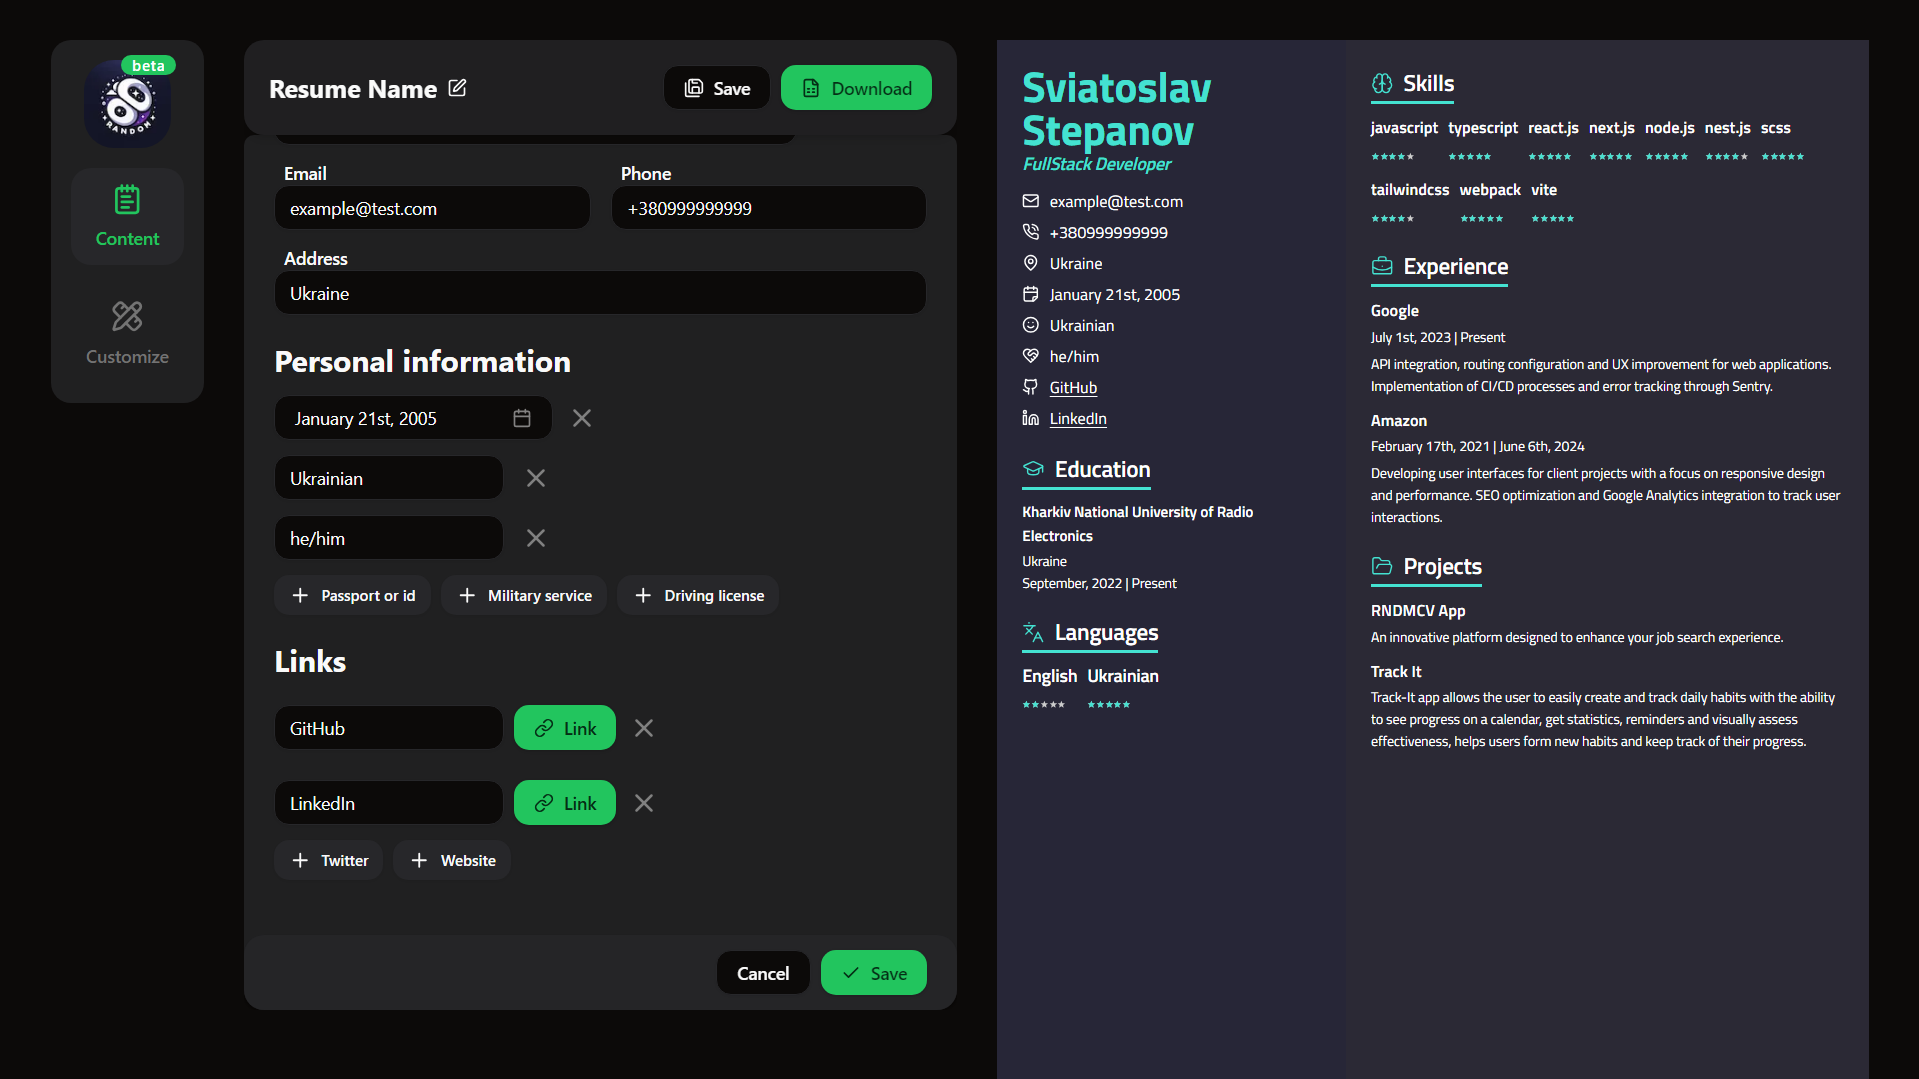
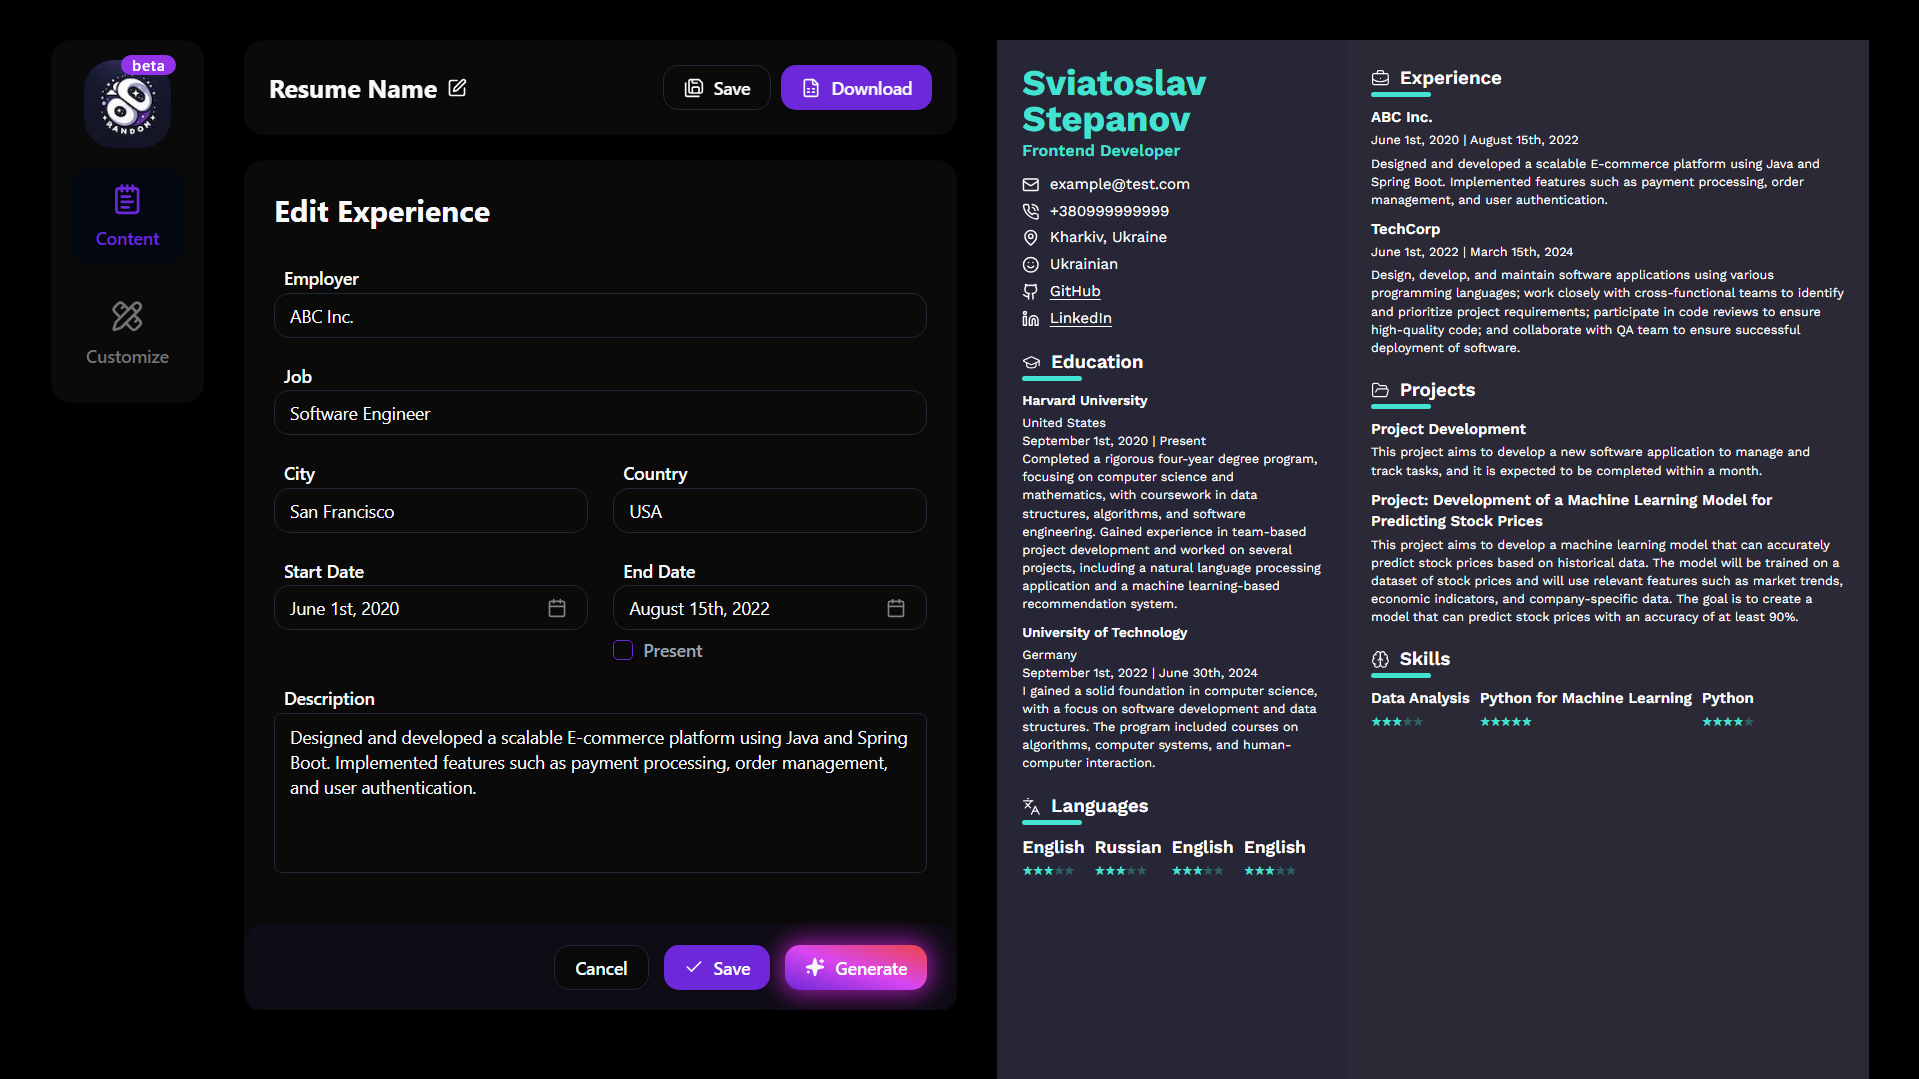
style: updated styles

diff --git a/src/entities/resume/ui/ResumeForm.tsx b/src/entities/resume/ui/ResumeForm.tsx
@@ -9,6 +9,7 @@ import { toggleStatus } from "../model/status.slice"
 
 import { ContentWrapper } from "./ContentWrapper"
 import { ResumeFormField } from "./ResumeFormField"
+
 import { useAppDispatch } from "@/app/store"
 import { generateSectionFields } from "@/shared/lib/actions"
 import { SectionKey } from "@/shared/lib/types"
@@ -51,6 +52,7 @@ const ResumeForm = <TSchema extends ZodSchema>({
     setIsLoading(true)
     try {
       const response = await generateSectionFields(names.join(", "), heading)
+
       console.log(response)
 
       Object.entries(response).forEach(([key, value]) => {
@@ -73,7 +75,7 @@ const ResumeForm = <TSchema extends ZodSchema>({
       <div className="relative mt-5 flex flex-col gap-5 rounded-2xl">
         <Form {...form}>
           <form onSubmit={functions.onSubmit}>
-            <div className="flex h-full flex-col gap-5 overflow-y-scroll rounded-2xl bg-white p-6 dark:bg-[#0e0c14]">
+            <div className="flex h-full flex-col gap-5 overflow-y-scroll rounded-2xl bg-white p-6 dark:bg-background">
               <h2 className="mb-2 text-2xl font-bold capitalize">{heading}</h2>
               <div className="grid grid-cols-2 gap-5">
                 {fields.map((fld) => (
@@ -83,8 +85,8 @@ const ResumeForm = <TSchema extends ZodSchema>({
                     name={fld.name}
                     render={({ field }) => (
                       <ResumeFormField<TSchema>
-                        field={field}
                         disabled={isLoading}
+                        field={field}
                         fieldName={fld.name}
                         type={fld.type}
                       />
@@ -102,16 +104,15 @@ const ResumeForm = <TSchema extends ZodSchema>({
                 {buttonText}
               </Button>
               <Button
-                onClick={generate}
-                className="relative bg-gradient-to-tr from-primary via-fuchsia-500 to-red-500"
+                className="relative bg-gradient-to-tr from-primary via-fuchsia-500 to-red-500 shadow-[0_0_20px_3px_#a21caf] transition-all hover:scale-105"
                 disabled={state.isLoading}
                 type="button"
+                onClick={generate}
               >
-                <div className="absolute -inset-1 -z-10 rounded-xl bg-gradient-to-b from-primary/60 to-primary opacity-70 blur dark:opacity-100" />
                 {isLoading ? (
                   <Loader2Icon className="mr-2 animate-spin" size={16} />
                 ) : (
-                  <SparklesIcon fill="currentColor" className="mr-2" size={16} />
+                  <SparklesIcon className="mr-2" fill="currentColor" size={16} />
                 )}
                 Generate
               </Button>

diff --git a/src/entities/resume/ui/ResumeFormField.tsx b/src/entities/resume/ui/ResumeFormField.tsx
@@ -1,10 +1,11 @@
+import type { TFormFieldType } from "./ResumeForm"
+
 import { format } from "date-fns"
 import { CalendarIcon } from "lucide-react"
 import { useState } from "react"
 import { ControllerRenderProps, Path } from "react-hook-form"
 import { TypeOf, ZodSchema } from "zod"
 
-import type { TFormFieldType } from "./ResumeForm"
 import { cn } from "@/shared/lib/utils"
 import {
   Button,
@@ -49,11 +50,11 @@ const ResumeFormField = <TSchema extends ZodSchema>({
                     {type === "startDate" ? "Start Date" : "End Date"}
                   </h6>
                   <Button
-                    disabled={disabled}
                     className={cn(
                       "w-full space-y-0 pl-3 text-left font-normal",
                       !field.value && "text-muted-foreground"
                     )}
+                    disabled={disabled}
                     type="button"
                     variant={"outline"}
                   >
@@ -88,8 +89,8 @@ const ResumeFormField = <TSchema extends ZodSchema>({
           <FormDescription>
             <Label className="flex items-center gap-2">
               <Checkbox
-                disabled={disabled}
                 checked={isChecked}
+                disabled={disabled}
                 onCheckedChange={(ch) => {
                   setIsChecked(!isChecked)
                   ch ? field.onChange("Present") : field.onChange("")
@@ -109,8 +110,8 @@ const ResumeFormField = <TSchema extends ZodSchema>({
       <FormItem className="col-span-full">
         <FormControl>
           <Textarea
+            className="min-h-32 w-full resize-none"
             disabled={disabled}
-            className="min-h-20 w-full resize-none"
             heading={fieldName}
             placeholder="Add description"
             value={field.value}
@@ -126,8 +127,8 @@ const ResumeFormField = <TSchema extends ZodSchema>({
     <FormItem className={type === "default" ? "col-span-full" : "w-full"}>
       <FormControl>
         <Input
-          disabled={disabled}
           className="w-full"
+          disabled={disabled}
           heading={fieldName}
           placeholder={`Enter your ${fieldName}`}
           value={field.value}

diff --git a/src/shared/lib/actions.ts b/src/shared/lib/actions.ts
@@ -5,6 +5,7 @@ import Stripe from "stripe"
 import { CompletionAIModel } from "./ai"
 import { RESPONSE_STATUS } from "./constants"
 import { ICreateResume, IResumeResponse, IUpdateResume } from "./types"
+
 import { auth } from "@/auth"
 import { prisma } from "@/prisma"
 
@@ -163,8 +164,10 @@ export async function generateSectionFields(fields: string, heading: string) {
   }
 
   try {
-    const prompt = `Given a list of fields: ${fields}. We need to generate a JSON object for “${heading.split(" ")[1]}”, if it is startDate or endDate, we need a string in the format “2024-11-03T21:00:00.000Z”, all others should be strings. TThe data should be plausible, that is, detailed information, everything should be detailed, even description. No unnecessary text, just output the result, i.e. the object. Without your words.`
+    const prompt = `Based on the list of fields: ${fields}, generate a JSON object for the section "${heading.split(" ")[1]}". If your fields include startDate or endDate, set them to a string in the format “2024-11-03T21:00:00.000Z”. If there is a level field, set it to a value between 1 and 5 (as string). All other fields must be strings. The data must be detailed, including a description if it is included among the fields. Do not include the section name in the object. Output only a JSON object with fields: ${fields} - without additional information or comments. Without your extra words, like Here is the generated JSON object...`
     const result = await CompletionAIModel(prompt)
+
+    console.log("@result", result)
 
     return typeof result === "string" ? JSON.parse(result) : result
   } catch (err) {

diff --git a/src/entities/resume/ui/ResumeDetails.tsx b/src/entities/resume/ui/ResumeDetails.tsx
@@ -1,14 +1,16 @@
 "use client"
 
+import type { SectionItem, SectionKey, SectionKeyWithoutPerson } from "@/shared/lib/types"
+
 import { DragDropContext, type DropResult, Droppable, DroppableProvided } from "@hello-pangea/dnd"
 import { EyeOffIcon, LucideIcon, PlusIcon } from "lucide-react"
+import Image from "next/image"
 
 import { reorderItems } from "../model/resume.slice"
 import { toggleStatus } from "../model/status.slice"
 
 import { useAppDispatch } from "@/app/store"
 import { toggleSectionInResume } from "@/entities/resume"
-import type { SectionItem, SectionKey, SectionKeyWithoutPerson } from "@/shared/lib/types"
 import { Accordion, AccordionContent, AccordionItem, AccordionTrigger, Button } from "@/shared/ui"
 
 interface ResumeDetailsProps<T> {
@@ -45,11 +47,18 @@ const ResumeDetails = <T extends SectionItem>({
   return (
     <div>
       <Accordion collapsible type="single">
-        <AccordionItem className="rounded-2xl dark:bg-[#0e0c14]" value={type}>
+        <AccordionItem className="relative mr-1 rounded-2xl dark:bg-background" value={type}>
           <AccordionTrigger>
             <div className="flex items-center gap-4 text-2xl font-bold capitalize">
               <Icon size={26} /> {type}
             </div>
+            <Image
+              alt="ai"
+              className="absolute -right-1 -top-1"
+              height={20}
+              src="/images/ai-badge2.png"
+              width={20}
+            />
           </AccordionTrigger>
           <AccordionContent>
             <DragDropContext onDragEnd={onDragEnd}>

diff --git a/src/shared/ui/button.tsx b/src/shared/ui/button.tsx
@@ -9,10 +9,10 @@ const buttonVariants = cva(
   {
     variants: {
       variant: {
-        default: "bg-primary text-primary-foreground shadow hover:bg-primary/90",
-        destructive: "bg-destructive text-destructive-foreground shadow-sm hover:bg-destructive/90",
+        default: "bg-primary text-primary-foreground shadow hover:bg-primary/70",
+        destructive: "bg-destructive text-destructive-foreground shadow-sm hover:bg-destructive/70",
         outline:
-          "border border-input bg-background shadow-sm hover:bg-accent dark:hover:bg-background/50 hover:text-accent-foreground",
+          "border border-input bg-background shadow-sm hover:bg-accent dark:hover:bg-accent/50 hover:text-accent-foreground",
         secondary: "bg-secondary text-secondary-foreground shadow-sm hover:bg-secondary/80",
         ghost: "hover:bg-accent hover:text-accent-foreground",
         link: "text-primary underline-offset-4 hover:underline"

diff --git a/src/pages_/HomePage/FeaturesSection.tsx b/src/pages_/HomePage/FeaturesSection.tsx
@@ -57,14 +57,14 @@ const FeaturesSection = () => {
           <div>
             <Image
               alt="resume-builder"
-              className="h-[580px] w-[800px] rounded-lg object-cover shadow-lg shadow-purple-400 dark:hidden dark:shadow-cyan-700"
+              className="h-[580px] w-[800px] rounded-lg object-cover shadow-lg shadow-violet-600/40 dark:hidden"
               height={1080}
               src="/images/app-2.png"
               width={1920}
             />
             <Image
               alt="resume-builder"
-              className="hidden h-[580px] w-[800px] rounded-lg object-cover shadow-lg shadow-purple-500/40 dark:block dark:shadow-cyan-500/40"
+              className="hidden h-[580px] w-[800px] rounded-lg object-cover shadow-lg dark:block dark:shadow-violet-600/40"
               height={1080}
               src="/images/app-2-dark.png"
               width={1920}

diff --git a/src/pages_/HomePage/WelcomeSection.tsx b/src/pages_/HomePage/WelcomeSection.tsx
@@ -46,7 +46,7 @@ const WelcomeSection = () => {
       </div>
       <animated.div
         ref={ref}
-        className="mt-16 w-full max-w-[70%] rounded-lg shadow-lg shadow-purple-400 dark:shadow-cyan-700"
+        className="mt-16 w-full max-w-[70%] rounded-lg shadow-lg shadow-violet-600/60"
         style={{
           position: "relative",
           overflow: "hidden",
@@ -67,7 +67,7 @@ const WelcomeSection = () => {
           src="/images/app-1-dark.png"
           width={1920}
         />
-        <div className="absolute left-[10%] top-[5%] z-30 h-52 w-52 bg-gradient-to-bl from-primary via-violet-500 to-blue-500 opacity-20 blur-2xl dark:from-primary dark:via-cyan-500 dark:to-blue-600" />
+        <div className="absolute left-[10%] top-[5%] z-30 h-52 w-52 bg-gradient-to-bl from-violet-400 via-violet-500 to-violet-600 opacity-20 blur-2xl" />
       </animated.div>
     </section>
   )

diff --git a/src/app/(builder)/resume/layout.tsx b/src/app/(builder)/resume/layout.tsx
@@ -7,7 +7,7 @@ export default function ResumeLayout({ children }: Readonly<{ children: React.Re
   return (
     <ResumeProvider>
       <AutosaveResume />
-      <div className="relative mx-auto flex h-full w-full justify-center gap-8 bg-zinc-100 px-4 dark:bg-background sm:px-6 md:px-6 lg:px-8 xl:px-8 2xl:px-10">
+      <div className="relative mx-auto flex h-full w-full justify-center gap-8 bg-zinc-100 px-4 dark:bg-black sm:px-6 md:px-6 lg:px-8 xl:px-8 2xl:px-10">
         <ResumeSidebar />
         <div className="flex w-full gap-8 sm:w-[600px] md:w-[700px] lg:w-[900px] xl:w-[1100px] 2xl:w-[1300px]">
           <div className="relative w-full overflow-hidden scroll-smooth pb-8 pt-8 sm:w-full md:w-full lg:w-1/2 xl:w-1/2 2xl:w-1/2">

diff --git a/src/entities/resume/model/resume.slice.ts b/src/entities/resume/model/resume.slice.ts
@@ -1,12 +1,4 @@
 import type { PayloadAction } from "@reduxjs/toolkit"
-import { createSlice } from "@reduxjs/toolkit"
-
-import {
-  createResumeItemHelper,
-  getSelectedResume,
-  reorderArray,
-  updateResumeItemDetailsHelper
-} from "./resume.helpers"
 import type {
   DeleteItemAction,
   IInitialStateResume,
@@ -22,6 +14,16 @@ import type {
   UpdateItemAction,
   UpdateSectionsPayload
 } from "@/shared/lib/types"
+
+import { createSlice } from "@reduxjs/toolkit"
+
+import {
+  createResumeItemHelper,
+  getSelectedResume,
+  reorderArray,
+  updateResumeItemDetailsHelper
+} from "./resume.helpers"
+
 import { SectionItem, SectionKey } from "@/shared/lib/types"
 
 const initialState: IInitialStateResume = {

diff --git a/src/features/Content/AddSectionToResume/AddSectionToResume.tsx b/src/features/Content/AddSectionToResume/AddSectionToResume.tsx
@@ -1,5 +1,7 @@
 "use client"
 
+import type { IContentSection, SectionKey } from "@/shared/lib/types"
+
 import {
   BrainIcon,
   BriefcaseBusinessIcon,
@@ -13,9 +15,9 @@ import { Just_Another_Hand } from "next/font/google"
 import { useCallback, useState } from "react"
 
 import { SectionButton } from "./SectionButton"
+
 import { useAppDispatch, useAppSelector } from "@/app/store"
 import { hideIsFirstLoading, selectGeneralResume, toggleSectionInResume } from "@/entities/resume"
-import type { IContentSection, SectionKey } from "@/shared/lib/types"
 import { cn } from "@/shared/lib/utils"
 import {
   Button,

diff --git a/src/widgets/ResumeDocument/ResumeDocumentRightSide.tsx b/src/widgets/ResumeDocument/ResumeDocumentRightSide.tsx
@@ -83,7 +83,7 @@ const ResumeDocumentRightSide = ({ customization, general, variant, isCard }: Re
                     })}
                     items={education.items}
                     render={(item) => (
-                      <div className={cn({ "gap-[2px]": isCard })}>
+                      <div className={cn("mb-2", { "gap-[2px]": isCard })}>
                         <p className={cn({ "text-[5px]": isCard })}>{item.country}</p>
                         {sections.education.showDates && item.startDate && item.endDate && (
                           <p className={cn({ "text-[5px]": isCard })}>

diff --git a/src/widgets/ResumeHeader/ResumeHeader.tsx b/src/widgets/ResumeHeader/ResumeHeader.tsx
@@ -6,7 +6,7 @@ import { DownloadResume, SaveResume } from "@/features"
 
 const ResumeHeader = () => {
   return (
-    <section className="sticky top-0 z-10 flex items-center justify-between rounded-2xl bg-white p-5 shadow-md dark:bg-[#0e0c14]">
+    <section className="sticky top-0 z-10 flex items-center justify-between rounded-2xl bg-background p-5 shadow-md">
       <div className="flex items-center gap-2">
         <h3 className="text-xl font-bold">Resume Name</h3>
         <SquarePenIcon className="cursor-pointer" size={16} />
